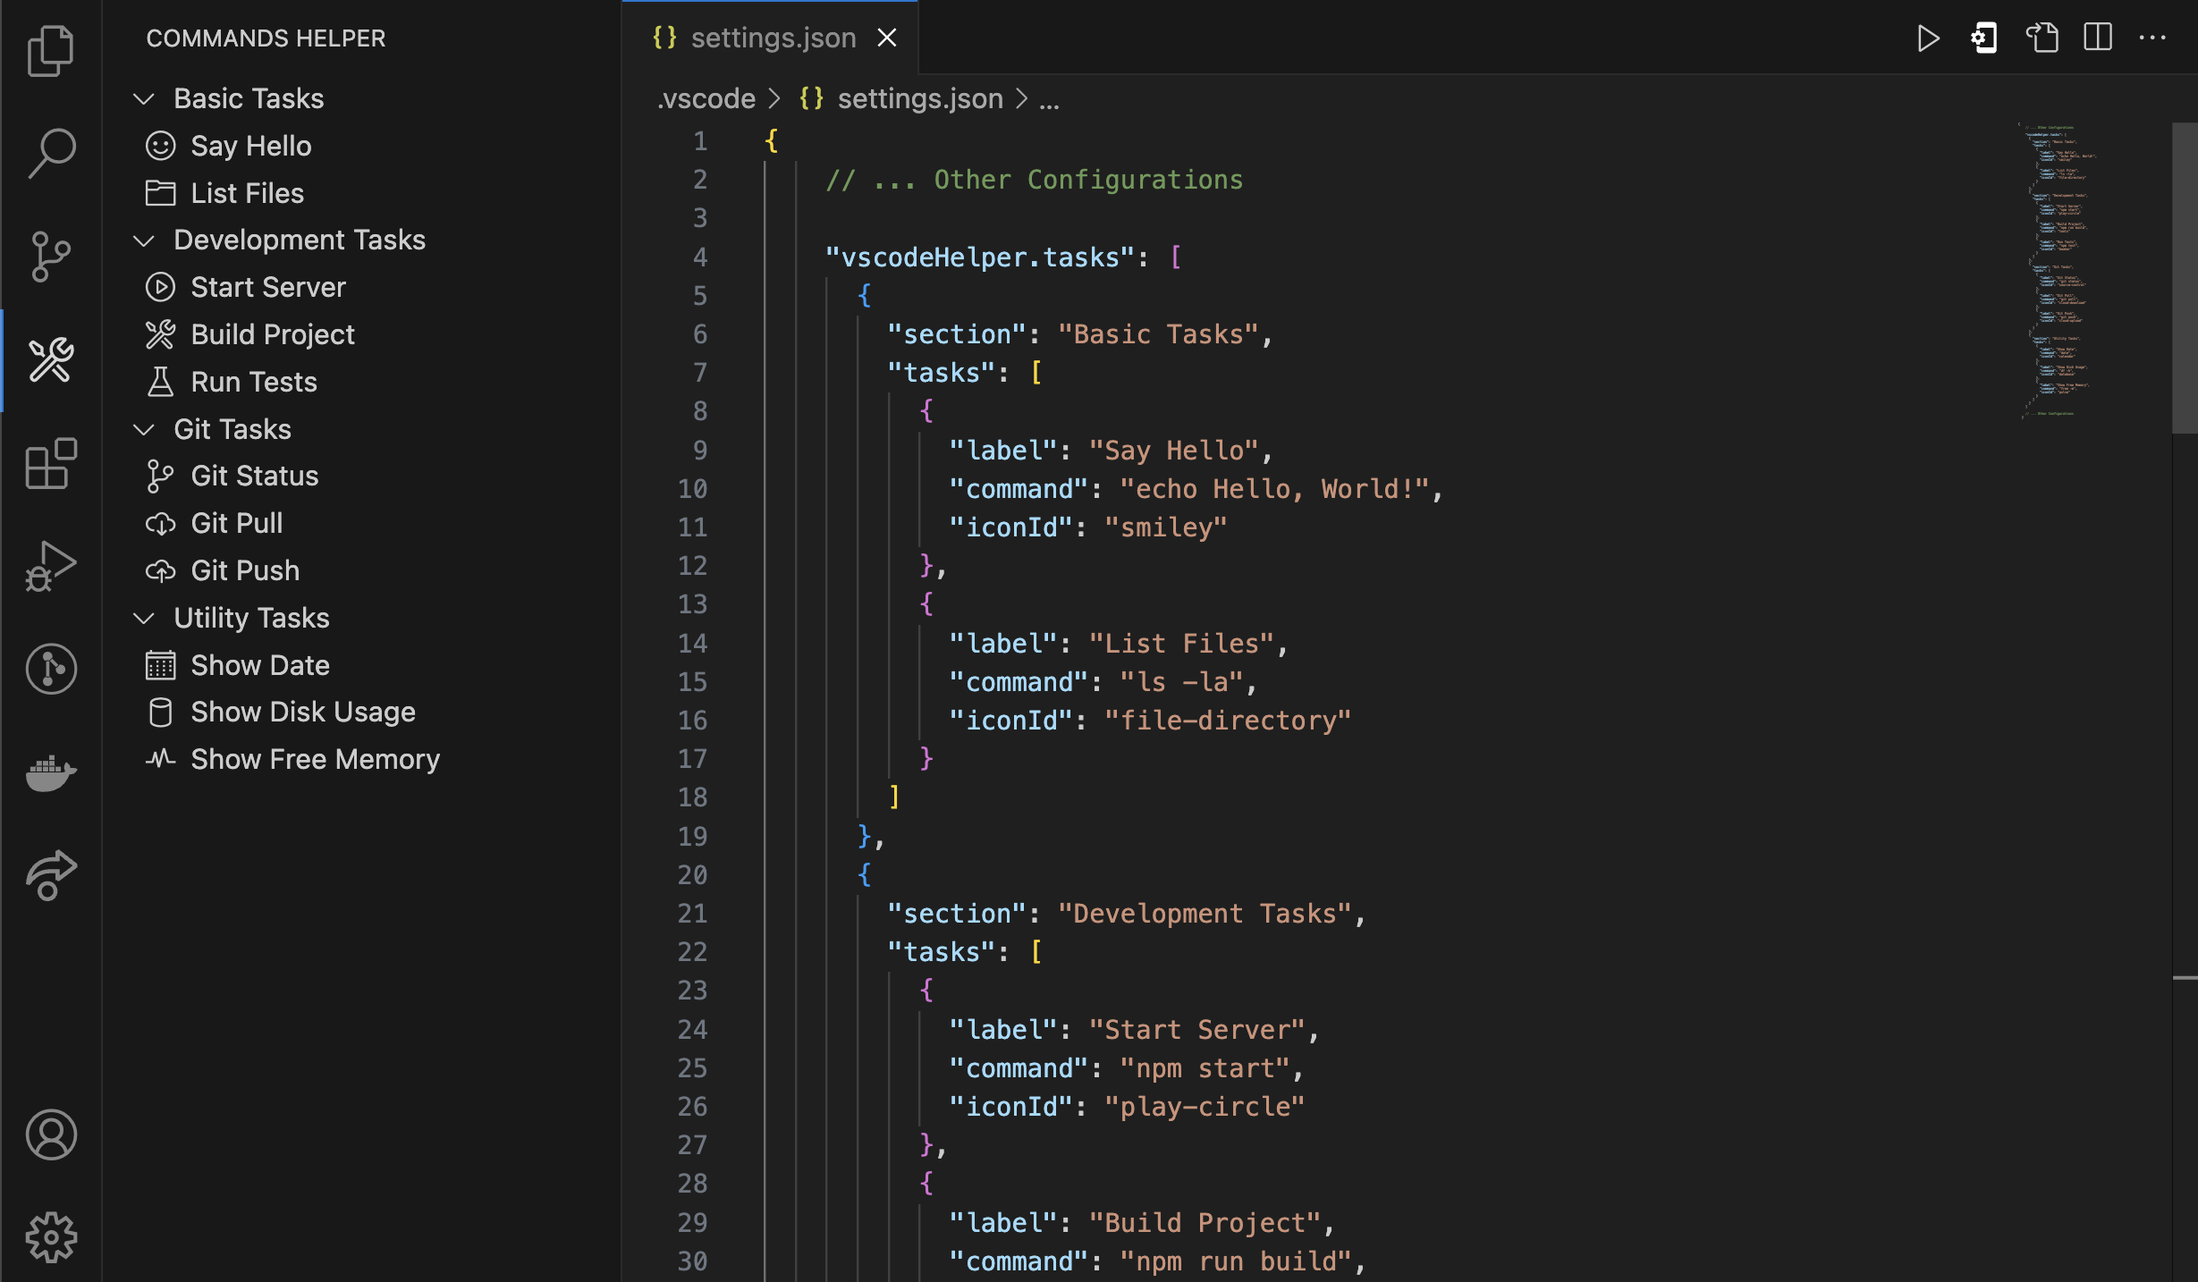
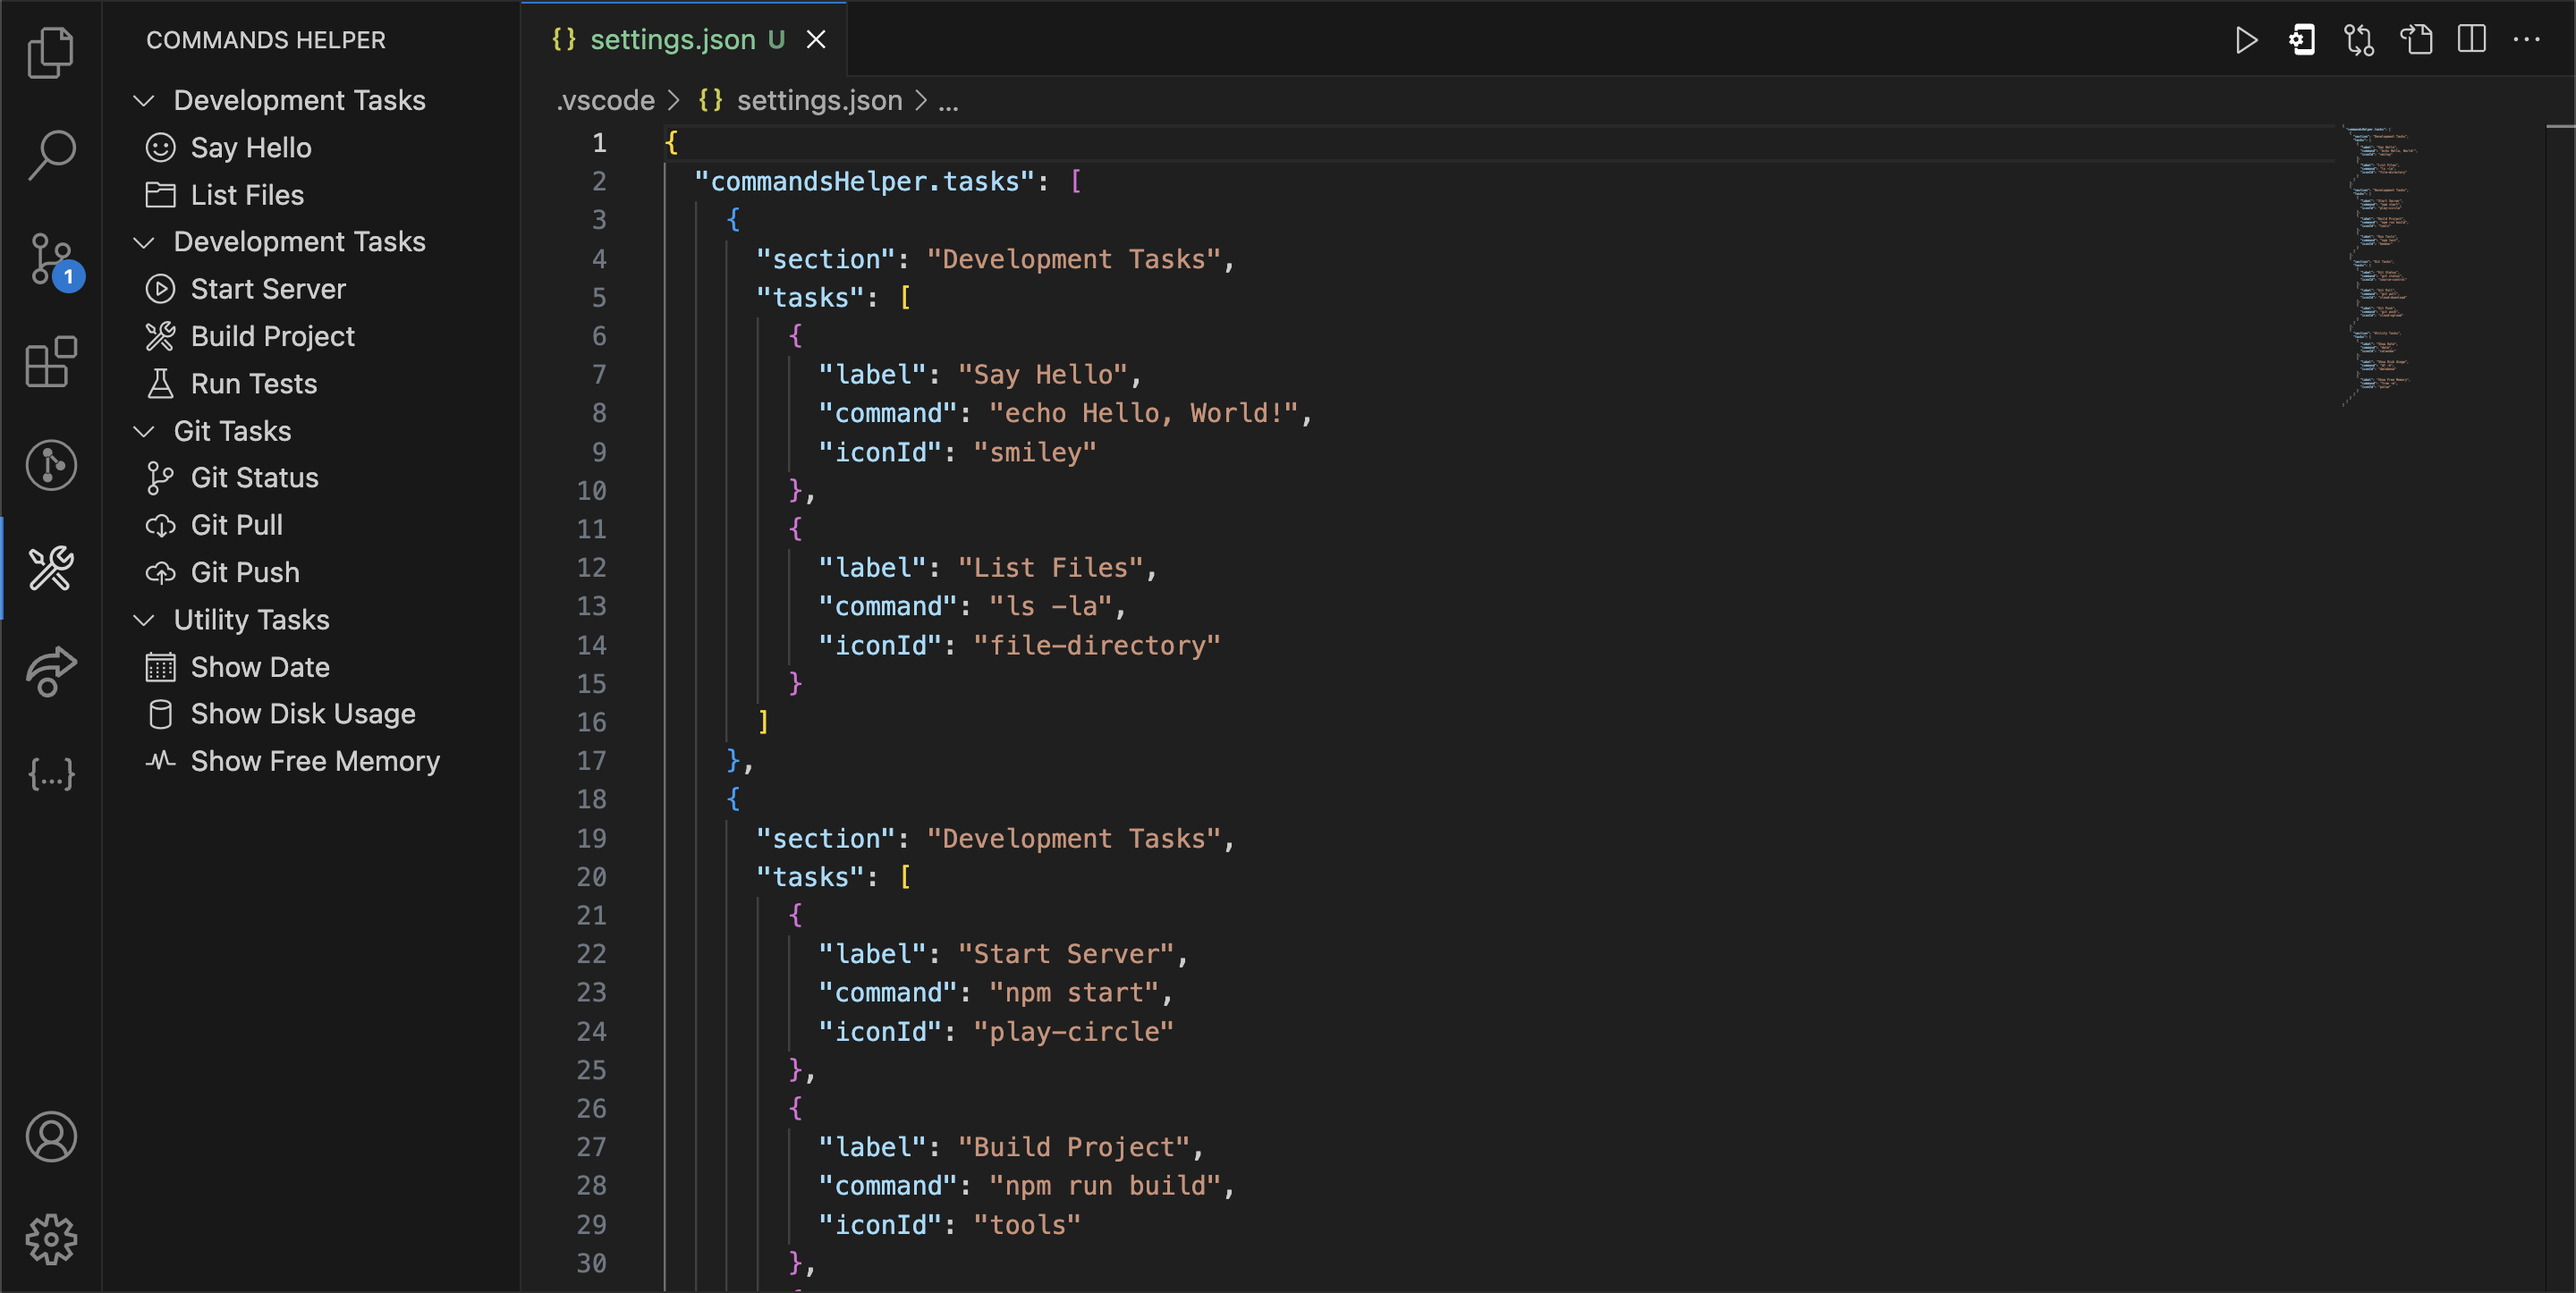
empty confih handling

diff --git a/src/extension.ts b/src/extension.ts
@@ -1,36 +1,125 @@
 import * as vscode from "vscode";
 
 export function activate(context: vscode.ExtensionContext) {
-  const tasks = getTasksFromConfiguration();
+  const { tasks } = getTasksFromConfiguration();
+  let webviewView: vscode.WebviewView | undefined;
+
+  vscode.commands.executeCommand(
+    "setContext",
+    "commandsHelper.hasTasks",
+    tasks.length > 0
+  );
 
   const taskProvider = new TaskProvider(tasks);
-  vscode.window.registerTreeDataProvider("vscodeHelperView", taskProvider);
+  vscode.window.registerTreeDataProvider("commandsHelper.tree", taskProvider);
 
-  vscode.commands.registerCommand("vscodeHelper.runTask", (task: TaskItem) => {
-    runTask(task);
+  const webviewProvider: vscode.WebviewViewProvider = {
+    resolveWebviewView: function (
+      view: vscode.WebviewView,
+      _context: vscode.WebviewViewResolveContext,
+      _token: vscode.CancellationToken
+    ): Thenable<void> | void {
+      webviewView = view;
+      view.webview.options = { enableScripts: true };
+      const { errorMessage } = getTasksFromConfiguration();
+      view.webview.html = getWebviewContent(errorMessage);
+      view.webview.onDidReceiveMessage((message) => {
+        switch (message.command) {
+          case "openSettings":
+            vscode.commands.executeCommand(
+              "workbench.action.openSettings",
+              "commandsHelper.tasks"
+            );
+            break;
+        }
+      });
+    },
+  };
+
+  vscode.window.registerWebviewViewProvider(
+    "commandsHelper.webview",
+    webviewProvider
+  );
+
+  vscode.commands.registerCommand(
+    "commandsHelper.runTask",
+    (task: TaskItem) => {
+      runTask(task);
+    }
+  );
+
+  vscode.commands.registerCommand("commandsHelper.openSettings", () => {
+    vscode.commands.executeCommand(
+      "workbench.action.openSettings",
+      "commandsHelper.tasks"
+    );
   });
 
   // Watch for configuration changes and refresh the view
   vscode.workspace.onDidChangeConfiguration((e) => {
-    if (e.affectsConfiguration("vscodeHelper.tasks")) {
-      taskProvider.refresh(getTasksFromConfiguration());
+    if (e.affectsConfiguration("commandsHelper.tasks")) {
+      const { tasks: newTasks, errorMessage } = getTasksFromConfiguration();
+      taskProvider.refresh(newTasks);
+      if (webviewView) {
+        webviewView.webview.html = getWebviewContent(errorMessage);
+      }
+      vscode.commands.executeCommand(
+        "setContext",
+        "commandsHelper.hasTasks",
+        newTasks.length > 0
+      );
     }
   });
 }
 
 function getTasksFromConfiguration(): {
-  section: string;
-  tasks: { label: string; command: string; iconId: string }[];
-}[] {
-  const configuration = vscode.workspace.getConfiguration("vscodeHelper");
-  return (
-    configuration.get<
-      {
-        section: string;
-        tasks: { label: string; command: string; iconId: string }[];
-      }[]
-    >("tasks") || []
-  );
+  tasks: TaskSection[];
+  errorMessage?: string;
+} {
+  const configuration = vscode.workspace.getConfiguration("commandsHelper");
+
+  try {
+    const tasksConfig = configuration.get<TaskSection[]>("tasks");
+    if (!Array.isArray(tasksConfig)) {
+      return {
+        tasks: [],
+        errorMessage:
+          "Invalid configuration format. Expected an array of task sections.",
+      };
+    }
+
+    const tasks: TaskSection[] = tasksConfig.map((section) => {
+      if (
+        typeof section !== "object" ||
+        typeof section.section !== "string" ||
+        !Array.isArray(section.tasks)
+      ) {
+        throw new Error(
+          "Configuration section is missing or tasks array is invalid."
+        );
+      }
+      section.tasks.forEach((task) => {
+        if (
+          typeof task !== "object" ||
+          typeof task.label !== "string" ||
+          typeof task.command !== "string"
+        ) {
+          throw new Error("Tasks are missing required fields.");
+        }
+      });
+      return section;
+    });
+
+    return { tasks };
+  } catch (error) {
+    return {
+      tasks: [],
+      errorMessage:
+        error instanceof Error
+          ? error.message
+          : "An unknown error occurred while loading configuration.",
+    };
+  }
 }
 
 class TaskProvider implements vscode.TreeDataProvider<TaskItem> {
@@ -101,7 +190,7 @@ class TaskItem extends vscode.TreeItem {
     if (commandStr) {
       this.command = {
         title: this.label,
-        command: "vscodeHelper.runTask",
+        command: "commandsHelper.runTask",
         arguments: [this],
       };
     }
@@ -116,5 +205,62 @@ function runTask(task: TaskItem) {
   terminal.sendText(task.commandStr!);
   terminal.show();
 }
+function getWebviewContent(errorMessage: string = ""): string {
+  return `
+  <!DOCTYPE html>
+  <html lang="en">
+  <head>
+    <meta charset="UTF-8">
+    <meta name="viewport" content="width=device-width, initial-scale=1.0">
+    <title>Commands Helper</title>
+    <style>
+      body {
+        padding: 10px;
+        text-align: center;
+      }
+      button {
+        background-color: #007acc;
+        color: white;
+        border: none;
+        border-radius: 4px;
+        padding: 10px 20px;
+        cursor: pointer;
+      }
+      button:hover {
+        background-color: #005a9e;
+      }
+      .error {
+        color: red;
+        font-weight: bold;
+      }
+    </style>
+  </head>
+  <body>
+    ${
+      errorMessage
+        ? `<p class="error">${errorMessage}</p>`
+        : "<h3>No Tasks Added</h3><p>Please add tasks to the configuration to see them here.</p>"
+    }
+    <button id="open-settings">Open Settings</button>
+    <script>
+      const vscode = acquireVsCodeApi();
+      document.getElementById('open-settings').addEventListener('click', () => {
+        vscode.postMessage({ command: 'openSettings' });
+      });
+    </script>
+  </body>
+  </html>`;
+}
 
 export function deactivate() {}
+
+interface Task {
+  label: string;
+  command: string;
+  iconId: string;
+}
+
+interface TaskSection {
+  section: string;
+  tasks: Task[];
+}

diff --git a/README.md b/README.md
@@ -1,18 +1,32 @@
 # Commands Helper
 
-Commands Helper is a Visual Studio Code extension designed to streamline the development workflow by providing an easy way to manage and execute custom tasks directly from the VSCode interface.
+Commands Helper is a Visual Studio Code extension designed to streamline the development workflow by providing an easy way to manage and execute custom command line tasks directly from the VSCode interface.
 
 ## Features
 
 - **Task Management**: Organize tasks into collapsible sections for better organization.
 - **Custom Commands**: Run terminal commands with a single click.
-- **Configurable**: Easily add or modify tasks through the workspace settings.
+- **Configurable**: Easily add or modify tasks through the VSCode settings.
 
-## Usage
+## Installation and Setup
 
-### Adding Tasks
+### Installation
 
-To add tasks, modify the `settings.json` file in .vscode folder inside your workspace. Here is an example configuration:
+Open VSCode Extensions and search for `gowravl.vscode-helper` and click on Install
+
+### Setup and Adding Tasks
+
+- Select the Commands Helper extension in Activity Bar
+- Click on the `Open Settings` Button
+- Click on `Edit in settings.json`
+- Add configuration as described below
+
+or
+
+- Open VSCode Settings by (`Ctrl + ,`) or (`Cmd + ,`)
+- Search for `commandsHelper.tasks`
+- Click on `Edit in settings.json`
+- Add configuration as described below
 
 ## Example Interface
 
@@ -24,7 +38,7 @@ Note: **iconId** supports VSCode Product Icons only. You can find the list of Ic
 {
   // ... Other Configurations
 
-  "vscodeHelper.tasks": [
+  "commandsHelper.tasks": [
     {
       "section": "Basic Tasks",
       "tasks": [
@@ -113,4 +127,8 @@ Note: **iconId** supports VSCode Product Icons only. You can find the list of Ic
 - **command**: The terminal command to be executed when the task is run.
 - **iconId**: The icon displayed alongside the task label in VSCode.
 
-<a href="https://www.flaticon.com/free-icons/gear" title="gear icons">Gear icons created by Eucalyp - Flaticon</a>
+## Acknowledgments
+
+- Thanks to the authors of [vscode-action-buttons](https://github.com/seunlanlege/vscode-action-buttons/) library for inspiration.
+
+- <a href="https://www.flaticon.com/free-icons/gear" title="gear icons">Gear icons created by Eucalyp - Flaticon</a>
